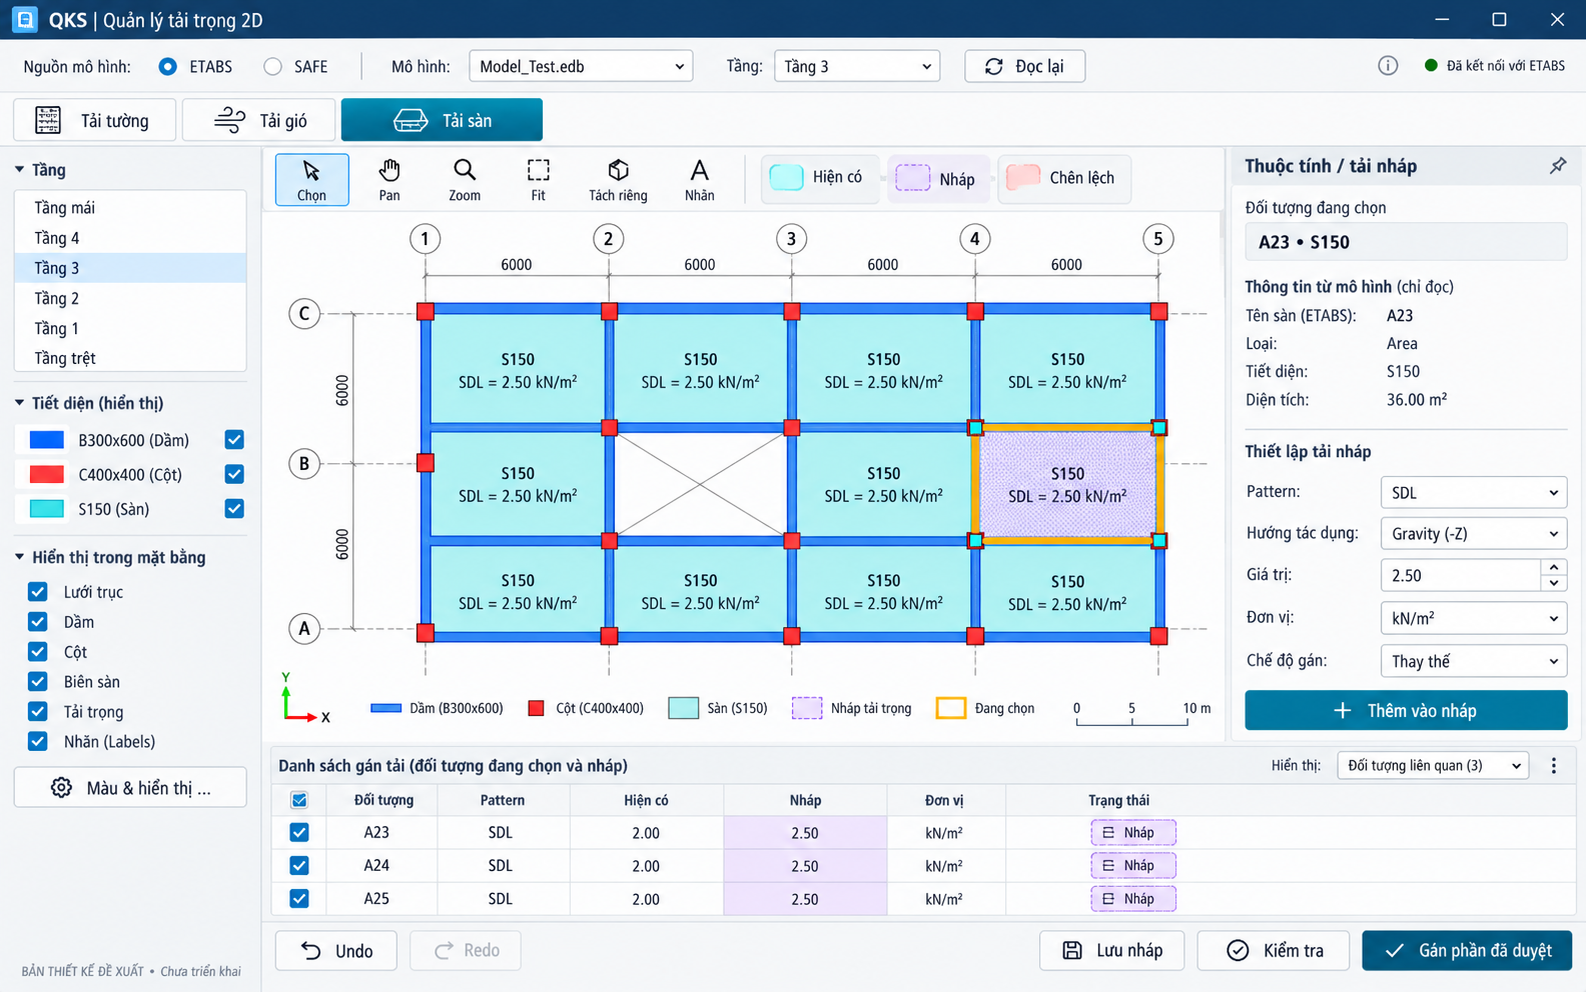
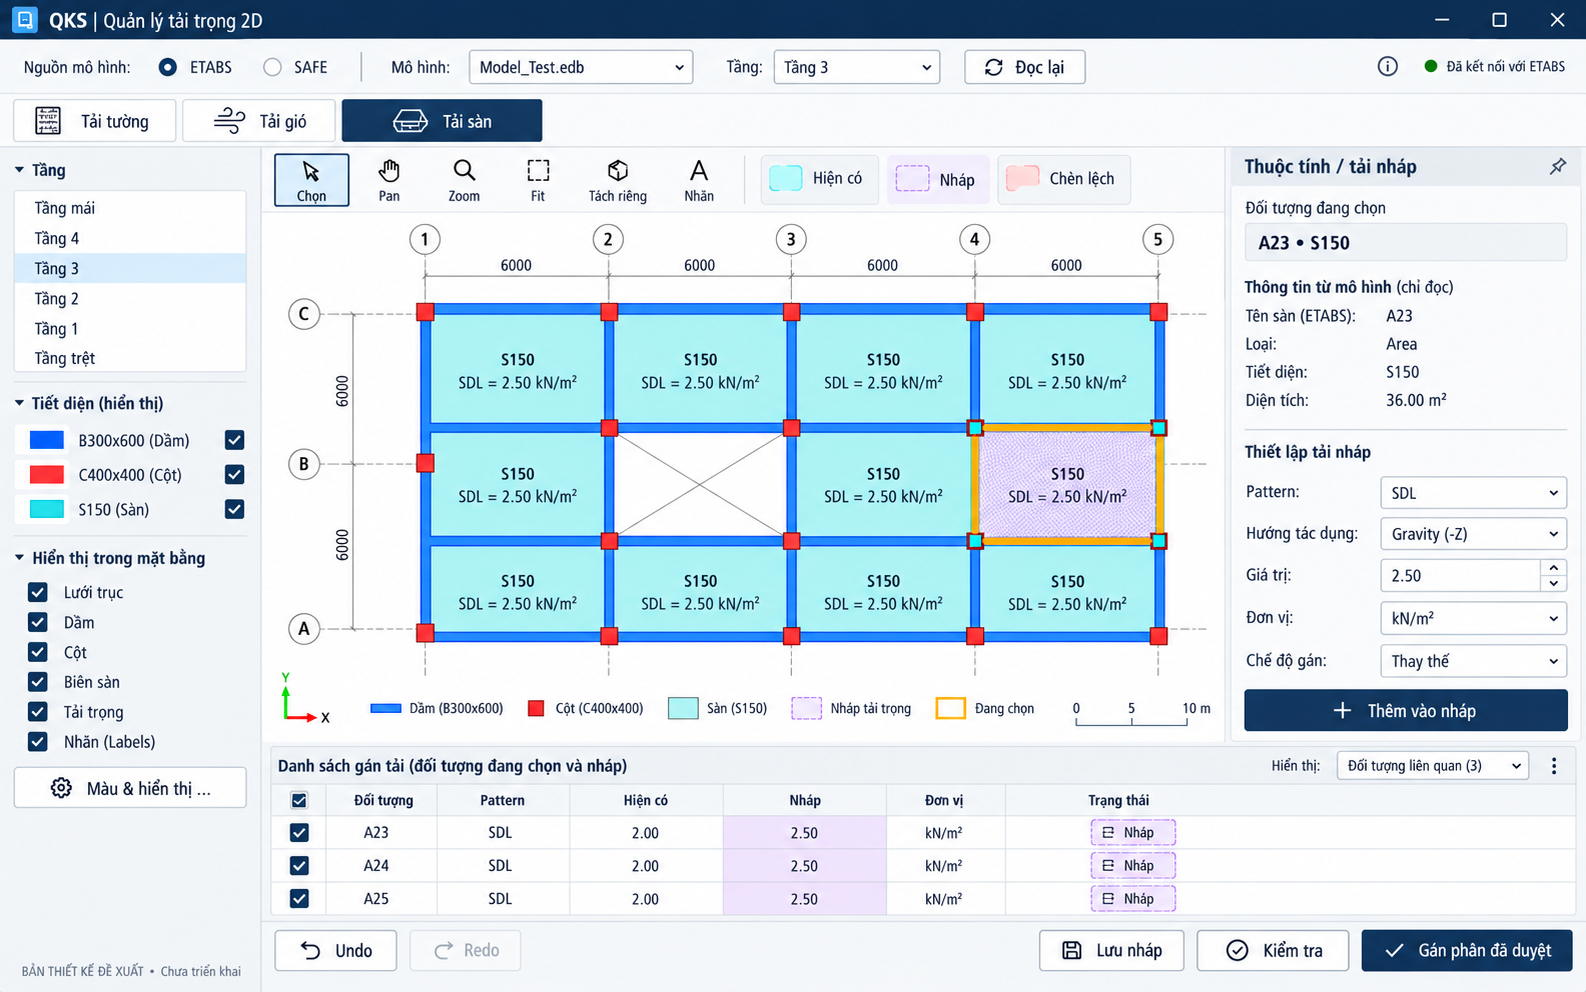
Restyle QKS 2D mockups with dark navy and subtle rectangular buttons

diff --git a/docs/design-2d/README.md b/docs/design-2d/README.md
@@ -1,6 +1,12 @@
-# Hình minh họa giao diện QKS 2D
+# Hình minh họa giao diện QKS 2D — QKS Navy
 
 Hai hình dưới là **bản thiết kế đề xuất**, chưa phải giao diện phần mềm đã triển khai. Dữ liệu mô hình trong ảnh chỉ để minh họa.
+
+## Template đã điều chỉnh
+
+Headbar navy tối #0B1F3A; nút chính/tab active #102A4C, chữ trắng; secondary trắng/viền navy. Nút giữ hình chữ nhật với CornerRadius 3 DIP. Màu mô hình và ký hiệu tải giữ ý nghĩa riêng. Đây là chỉnh sửa thiết kế minh họa, chưa áp theme vào add-in chạy thực.
+
+[Design tokens QKS Navy](qks-navy-tokens.json).
 
 ## 1. Bố cục cửa sổ WPF
 
